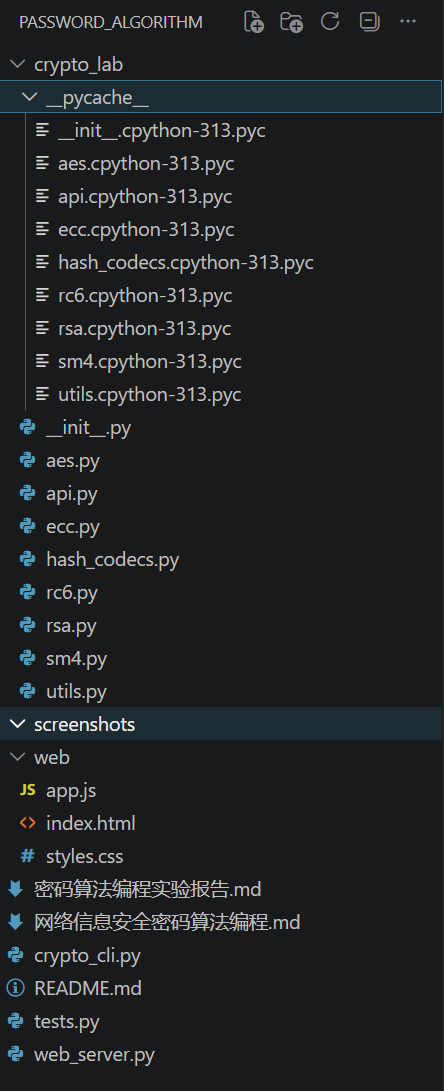
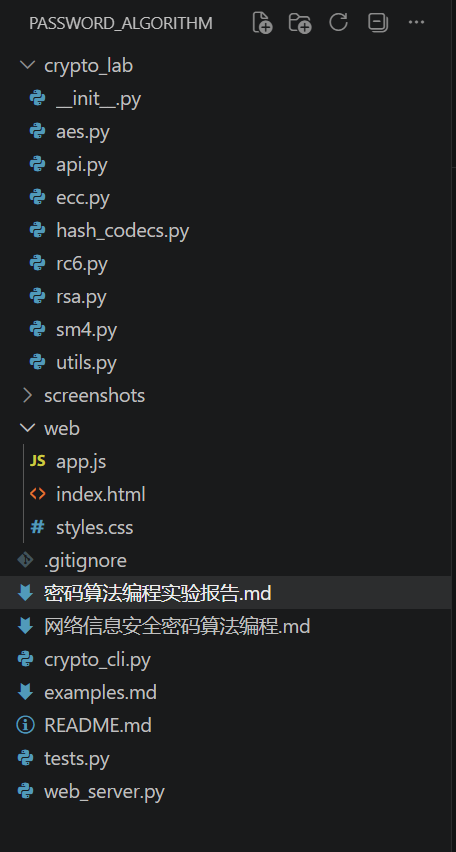
Refactor code structure for improved readability and maintainability

diff --git a/密码算法编程实验报告.md b/密码算法编程实验报告.md
@@ -71,7 +71,9 @@ pre code {
 **实现语言**：Python、HTML、CSS、JavaScript  
 **项目目录**：`Password_algorithm`  
 **GitHub 仓库**：<https://github.com/Happyhppay/Password_algorithm>  
-
+**姓名**：姜乐  
+**班级**：2023211804  
+**学号**：2023211591  
 
 <div style="page-break-after: always;"></div>
 